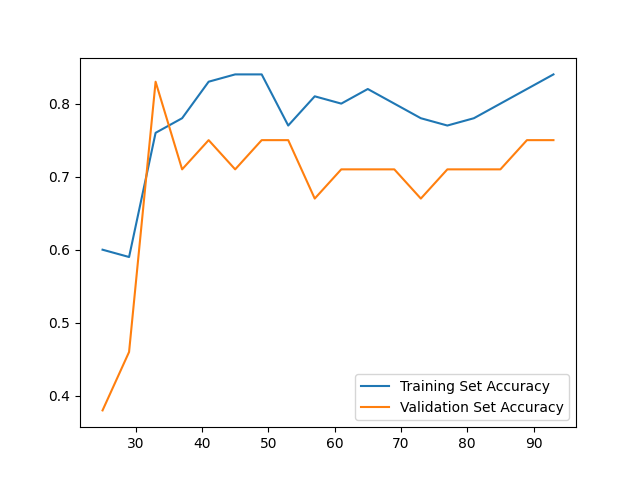
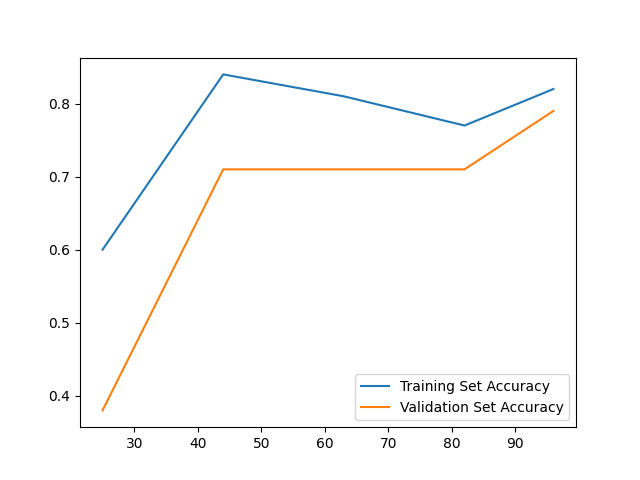
Added learning curve parameters (starting data size, increment rate) in the evaluate function and initialize with set function

diff --git a/evaml/classification/_super.py b/evaml/classification/_super.py
@@ -29,15 +29,17 @@
 from sklearn.metrics import classification_report
 from sklearn.metrics import confusion_matrix
 from sklearn.metrics import precision_recall_fscore_support
-from sklearn.metrics import accuracy_score
+
 
 class MLModel:
     """
 
     :argument
     """
-    _START_DATA_SIZE = 25
-    _INCREMENT_RATE = 5
+
+    def __init__(self, learning_curve_start_data_size, learning_curve_increment_rate):
+        self.learning_curve_start_data_size = learning_curve_start_data_size
+        self.learning_curve_increment_rate = learning_curve_increment_rate
 
     def _generate_evaluation_metrics(self, model, X_train, y_train, X_val, y_val, X_test, y_test):
         """
@@ -65,11 +67,13 @@ class MLModel:
     def _learning_curve_accuracy_measurement(self, model, X_train, y_train, X_val, y_val):
         learning_curve_accuracy = []
 
-        start = self._START_DATA_SIZE
+        start = self.learning_curve_start_data_size
         end = len(y_train)
-        increment = int((end * self._INCREMENT_RATE) / 100)
+        increment = int((end * self.learning_curve_increment_rate) / 100)
 
-        for data_size in range(start, end, increment):
+        for idx in range(start, end + increment, increment): # [10, 15, 20, 25, 30, 35], 10 --- 45
+            data_size = min(idx, end)
+
             model.fit(X_train[:data_size, :], y_train[:data_size])
             train_accuracy = self._calculate_accuracy(model, X_train[:data_size, :], y_train[:data_size])
             val_accuracy = self._calculate_accuracy(model, X_val, y_val)
@@ -86,3 +90,9 @@ class MLModel:
 
     def _generate_confusion_matrix(self, y_true, y_pred):
         return confusion_matrix(y_true, y_pred)
+
+    def set_learning_curve_start_data_size(self, size):
+        self.learning_curve_start_data_size = size
+
+    def set_learning_curve_increment_rate(self, rate):
+        self.learning_curve_increment_rate = rate

diff --git a/evaml/classification/_evaluate_models.py b/evaml/classification/_evaluate_models.py
@@ -63,8 +63,10 @@ def evaluate(X_train=None,
              X_test=None,
              y_test=None,
              classifiers=__classifiers_list__,
-             directory='evaluation',
-             reports_per_classifier=10):
+             report_directory='evaluation',
+             reports_per_classifier=10,
+             learning_curve_start_data_size=25,
+             learning_curve_increment_rate=20):
     """
 
     :param X_train:
@@ -75,11 +77,14 @@ def evaluate(X_train=None,
     :param directory:
     :return:
     """
-    __create_directories(directory)
+    __create_directories(report_directory)
     evaluation_metrics_all_models = {}
     X, X_val, y, y_val = train_test_split(X_train, y_train, test_size=.2, random_state=42)
 
     for classifier in classifiers:
+
+        classifier.set_learning_curve_start_data_size(learning_curve_start_data_size)
+        classifier.set_learning_curve_increment_rate(learning_curve_increment_rate)
 
         start = time.time()
         evaluation_metrics, learning_curve_data_all = classifier.evaluate_knn_multiprocessing(
@@ -87,10 +92,10 @@ def evaluate(X_train=None,
         end = time.time()
         logger.info(classifier.__class__.__name__ + " >>> Time taken: " + str(round(end - start, 2)))
 
-        __plot_learning_curves(learning_curve_data_all, directory)
+        __plot_learning_curves(learning_curve_data_all, report_directory)
         evaluation_metrics_all_models[classifier.__class__.__name__] = evaluation_metrics
 
-    return __create_report(evaluation_metrics_all_models, directory)
+    return __create_report(evaluation_metrics_all_models, report_directory)
 
 
 def __plot_learning_curves(learning_curve_data_all, directory):

diff --git a/evaml/classification/_neighbors.py b/evaml/classification/_neighbors.py
@@ -46,7 +46,9 @@ class KNearestNeighbors(MLModel):
                  min_leaf_size=20,
                  max_leaf_size=30,
                  min_p=1,
-                 max_p=5):
+                 max_p=5,
+                 learning_curve_start_data_size=25,
+                 learning_curve_increment_rate=20):
         """
 
         :param min_neighbors:
@@ -58,6 +60,8 @@ class KNearestNeighbors(MLModel):
         :param min_p:
         :param max_p:
         """
+        super().__init__(learning_curve_start_data_size, learning_curve_increment_rate)
+
         self.__NEIGHBORS = [k_neighbors for k_neighbors in range(min_neighbors, max_neighbors+1, 2)]
         self.__WEIGHTS = weights
         self.__ALGORITHMS = algorithms
